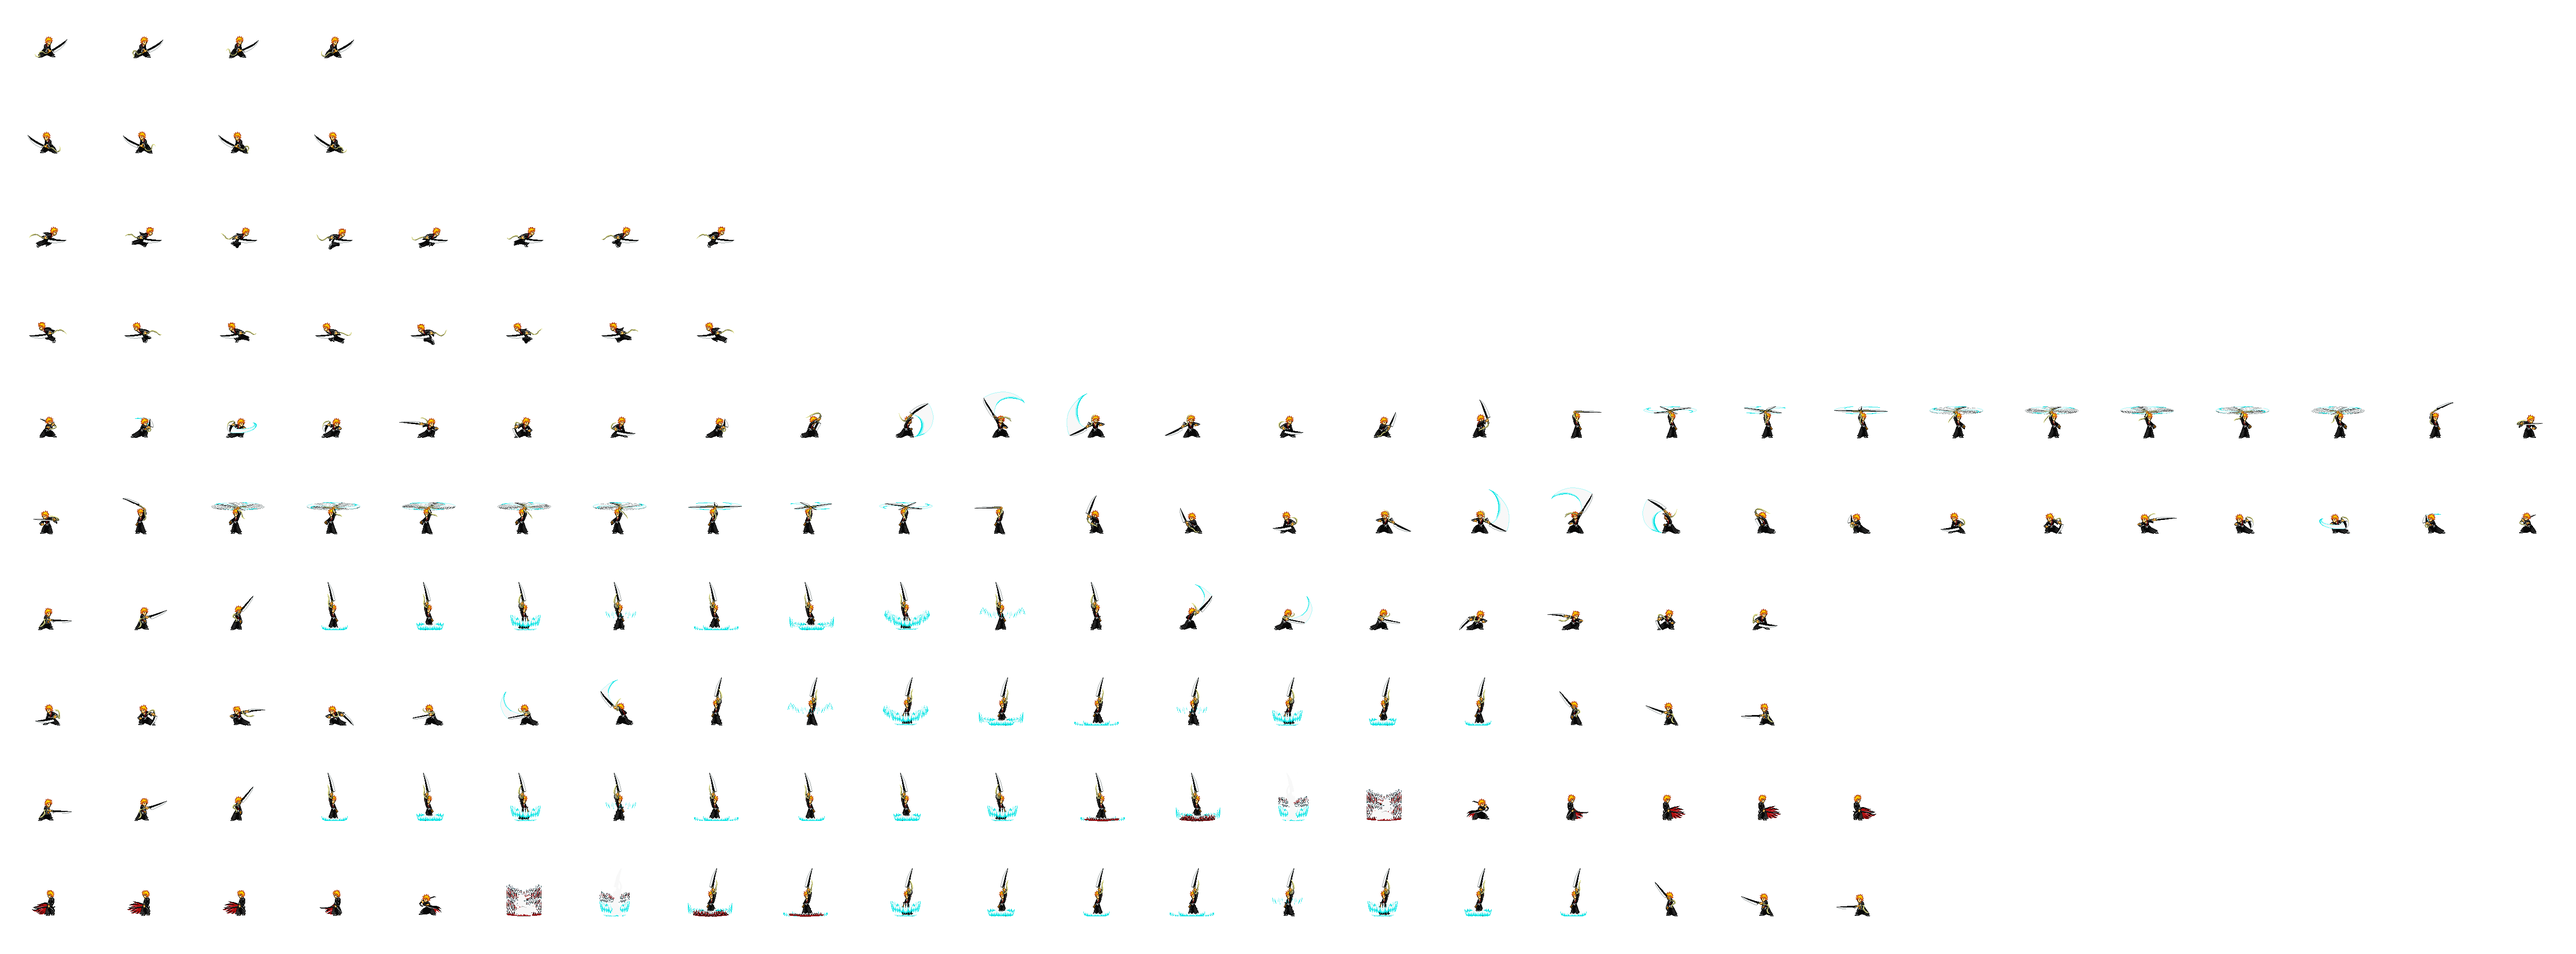
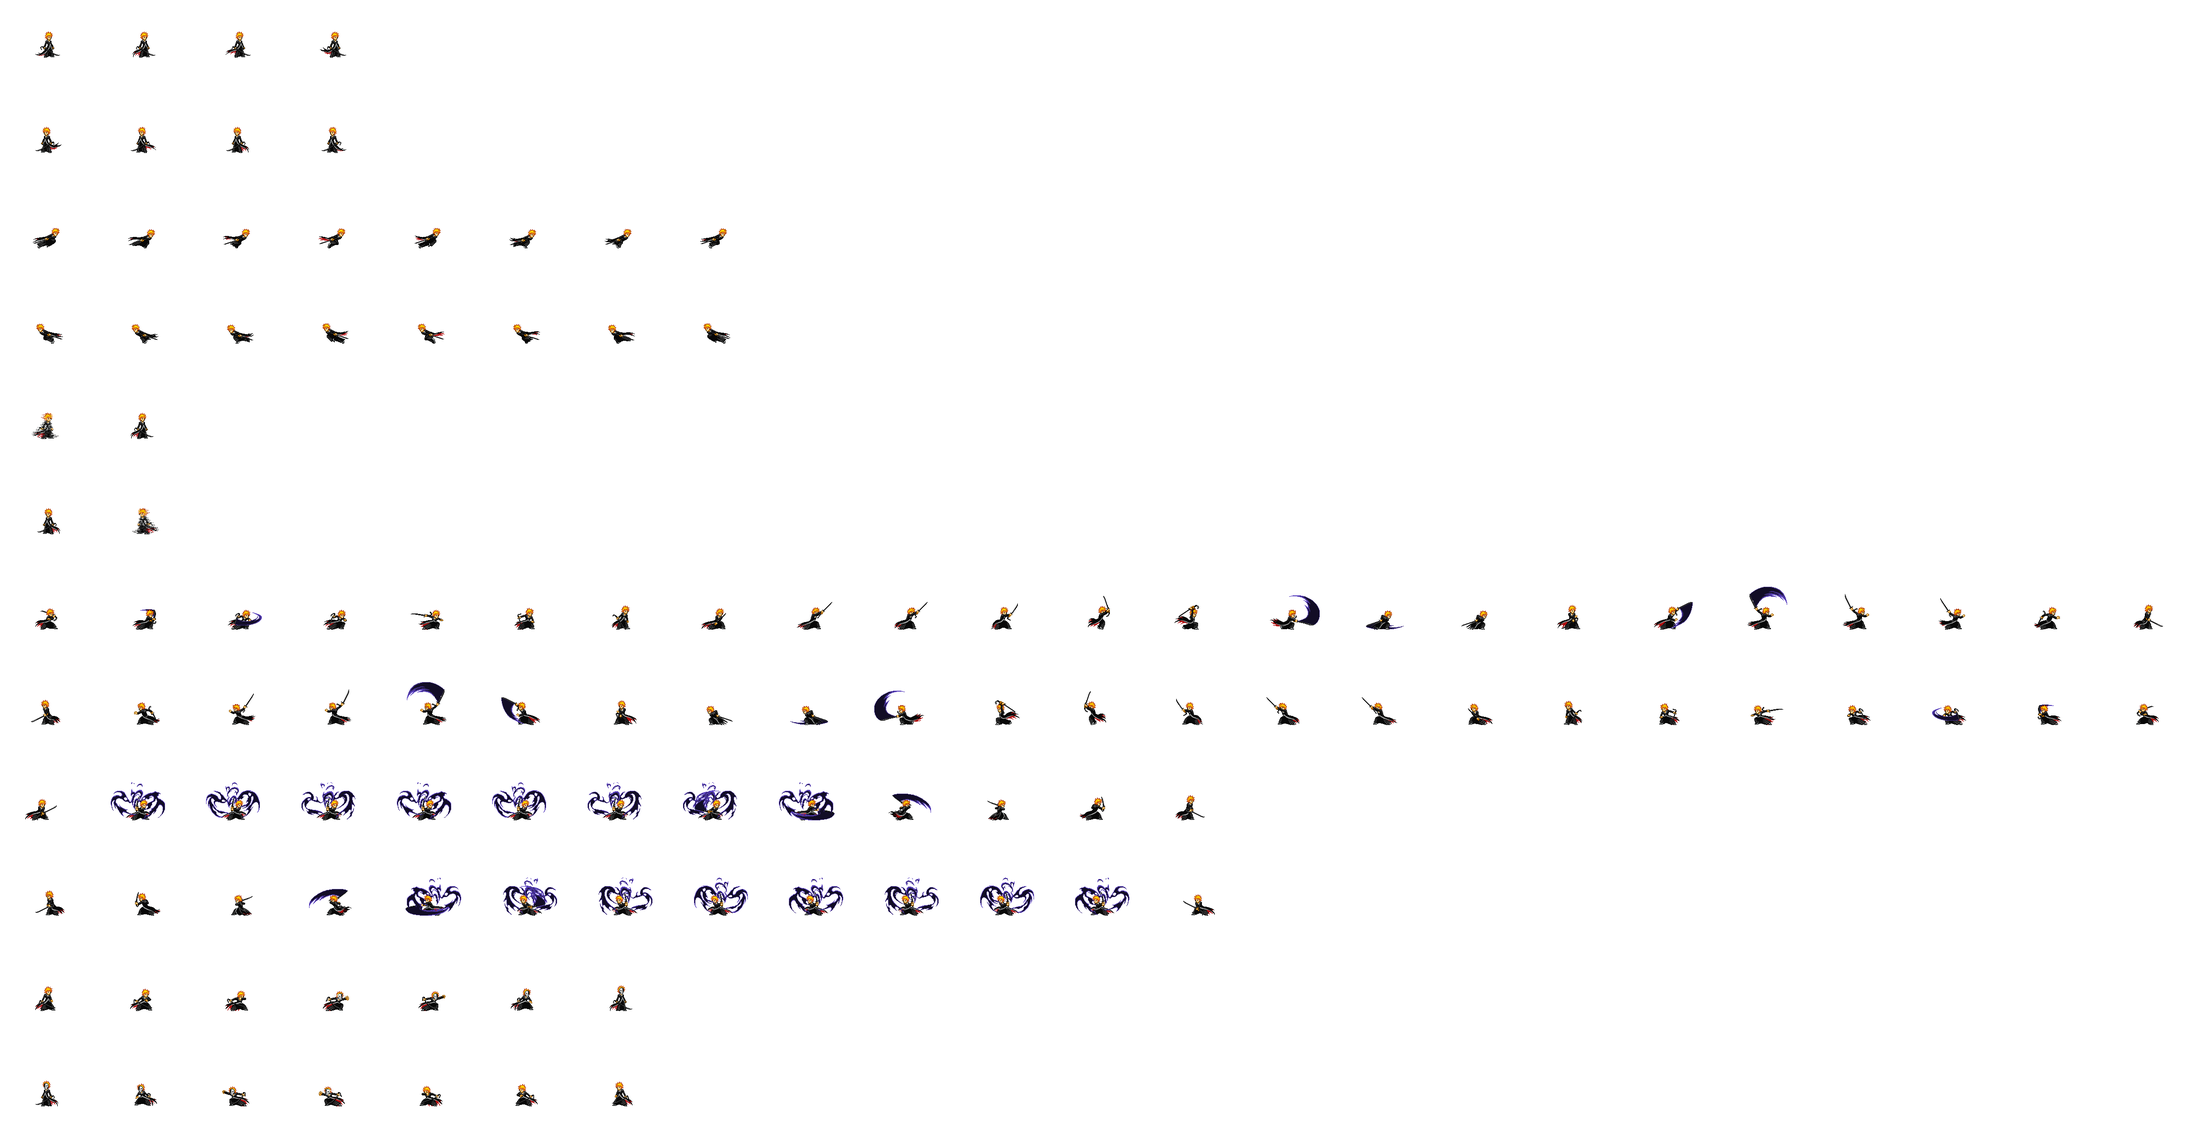
Changement dans la transformation

diff --git a/model/Heros.py b/model/Heros.py
@@ -38,7 +38,7 @@ class Heros(Character, metaclass=Singleton):
 
         if "num_sprintes" in self.lv0:
             self.transformAnim = [self.subimage(self.lv0["spriteSize"]*i, self.lv0["y_Anim"]["transform"], self.lv0["spriteSize"]*(i+1), self.lv0["y_Anim"]["transform"]+self.lv0["spriteSize"]).zoom(self.zoom)
-                            for i in range(self.lv0["num_sprintes"]["transform"])]
+                                  for i in range(self.lv0["num_sprintes"]["transform"])]
             self.transformAnim.reverse()
 
         if hasattr(self, 'lv1') and self.lv1 != {}:
@@ -61,7 +61,7 @@ class Heros(Character, metaclass=Singleton):
             self.attackLeft1.reverse()
 
             self.transformAnim1 = [self.subimage(self.lv1["spriteSize"]*i, self.lv1["y_Anim"]["transform"], self.lv1["spriteSize"]*(i+1), self.lv1["y_Anim"]["transform"]+self.lv1["spriteSize"]).zoom(self.zoom)
-                          for i in range(self.lv1["num_sprintes"]["transform"])]
+                                   for i in range(self.lv1["num_sprintes"]["transform"])]
             self.transformAnim1.reverse()
 
             self.death1 = [self.subimage(self.lv1["spriteSize"]*i, self.lv1["y_Anim"]["die"], self.lv1["spriteSize"]*(i+1), self.lv1["y_Anim"]["die"]+self.lv1["spriteSize"]).zoom(self.zoom)
@@ -87,7 +87,7 @@ class Heros(Character, metaclass=Singleton):
             self.attackLeft2.reverse()
 
             self.transformAnim2 = [self.subimage(self.lv2["spriteSize"]*i, self.lv2["y_Anim"]["transform"], self.lv2["spriteSize"]*(i+1), self.lv2["y_Anim"]["transform"]+self.lv2["spriteSize"]).zoom(self.zoom)
-                          for i in range(self.lv2["num_sprintes"]["transform"])]
+                                   for i in range(self.lv2["num_sprintes"]["transform"])]
             self.transformAnim2.reverse()
 
             self.death2 = [self.subimage(self.lv2["spriteSize"]*i, self.lv2["y_Anim"]["die"], self.lv2["spriteSize"]*(i+1), self.lv2["y_Anim"]["die"]+self.lv2["spriteSize"]).zoom(self.zoom)
@@ -129,7 +129,7 @@ class Heros(Character, metaclass=Singleton):
                     self.attack()
                     return self.target
             # if self.hp < self.baseHp:
-            #     self.hp += 1 
+            #     self.hp += 1
         self.seeking = self.canvas.after(50, self.seek)
 
     def mouseMove(self, event):
@@ -145,9 +145,9 @@ class Heros(Character, metaclass=Singleton):
                 self.moveTo(event.x, self.min_y)
             else:
                 self.moveTo(event.x, event.y)
-        
+
         elif self.attacking:
-            self.state="idle"
+            self.state = "idle"
             self.canvas.after_cancel(self.attack)
 
             if event.y > self.max_y:
@@ -178,7 +178,7 @@ class Heros(Character, metaclass=Singleton):
             self.damagingSprite = self.lv1["damagingSprite"]
             self.speed = self.lv1["speed"]
             self.attackSpeed = self.lv1["attackSpeed"]
-            self.num_sprintes = self.lv1["num_sprintes"]
+            # self.num_sprintes = self.lv1["num_sprintes"]
             self.spritesheet = self.lv1["spritesheet"]
             self.spriteSize = self.lv1["spriteSize"]
             self.y_Anim = self.lv1["y_Anim"]
@@ -200,7 +200,7 @@ class Heros(Character, metaclass=Singleton):
             self.damagingSprite = self.lv2["damagingSprite"]
             self.speed = self.lv2["speed"]
             self.attackSpeed = self.lv2["attackSpeed"]
-            self.num_sprintes = self.lv2["num_sprintes"]
+            # self.num_sprintes = self.lv2["num_sprintes"]
             self.spritesheet = self.lv2["spritesheet"]
             self.spriteSize = self.lv2["spriteSize"]
             self.y_Anim = self.lv2["y_Anim"]
@@ -211,7 +211,7 @@ class Heros(Character, metaclass=Singleton):
             self.attackRight = self.attackRight2
             # self.transformAnim = self.transformAnim2
             self.death = self.death2
-        
+
         elif self.lvl == 2:
             self.lvl = 3
             self.sprite = 0
@@ -222,7 +222,7 @@ class Heros(Character, metaclass=Singleton):
             self.damagingSprite = self.lv3["damagingSprite"]
             self.speed = self.lv3["speed"]
             self.attackSpeed = self.lv3["attackSpeed"]
-            self.num_sprintes = self.lv3["num_sprintes"]
+            # self.num_sprintes = self.lv3["num_sprintes"]
             self.spritesheet = self.lv3["spritesheet"]
             self.spriteSize = self.lv3["spriteSize"]
             self.y_Anim = self.lv3["y_Anim"]
@@ -233,7 +233,7 @@ class Heros(Character, metaclass=Singleton):
             self.attackLeft = self.attackLeft3
             self.attackRight = self.attackRight3
             self.death = self.death3
-    
+
     def changeStats(self, dict):
         self.hp = dict["hp"]
         self.damage = dict["damage"]
@@ -260,10 +260,10 @@ class Adventurer(Heros):
     name = "Aventurier"
     hp = 100
     damage = 4
-    damagingSprite = [1,2,3,4]
+    damagingSprite = [1, 2, 3, 4]
     speed = 8
     attackSpeed = 4
-    
+
     # Spritesheet du Heros
     barOffsetx = -8.5
     barOffsety = 10
@@ -283,22 +283,102 @@ class Adventurer(Heros):
     def transform(self):
         pass
 
+
 class Ichigo(Heros):
     # Stats du Héros
     name = "Ichigo"
 
-    hp = 50
-    damage = 2
-    speed = 8
-    attackSpeed = 4
+    def __init__(self, canvas, x, y, max_y, min_y):
+        self.hp = self.lv0["hp"]
+        self.damage = self.lv0["damage"]
+        self.damagingSprite = self.lv0["damagingSprite"]
+        self.speed = self.lv0["speed"]
+        self.attackSpeed = self.lv0["attackSpeed"]
+        self.num_sprintes = self.lv0["num_sprintes"]
+        self.spritesheet = self.lv0["spritesheet"]
+        self.spriteSize = self.lv0["spriteSize"]
+        self.y_Anim = self.lv0["y_Anim"]
+        Heros.__init__(self, canvas, x, y, max_y, min_y)
+    
+    lv0 = {
+        "hp": 50,
+        "damage": 2,
+        "speed": 8,
+        "attackSpeed": 4,
 
-    # Spritesheet du Heros
-    num_sprintes = {"idle": 2, "runRight": 8,
-                    "runLeft": 8, "attackRight": 16, "attackLeft": 16, "die": 2, "transform": 3}
-    spritesheet = "view/src/Ichigo0.png"
-    spriteSize = 200
-    y_Anim = {"idle": 0, "runRight": 400, "runLeft": 600,
-              "attackRight": 800, "attackLeft": 1000, "die": 0, "transform": 1200}
+        # Spritesheet du Heros
+        "damagingSprite" : [2,3,5,12,13],
+        "num_sprintes": {"idle": 2, "runRight": 8,
+                         "runLeft": 8, "attackRight": 16, "attackLeft": 16, "die": 2, "transform": 20},
+        "spritesheet": "view/src/Ichigo0.png",
+        "spriteSize": 200,
+        "y_Anim": {"idle": 0, "runRight": 400, "runLeft": 600,
+                   "attackRight": 800, "attackLeft": 1000, "die": 0, "transform": 1800}
+    }
+
+    lv1 = {
+        "hp": 50,
+        "damage": 2,
+        "speed": 8,
+        "attackSpeed": 6,
+
+        # Spritesheet du Heros
+        "damagingSprite" : [2,3,5,12,13],
+        "num_sprintes": {"idle": 2, "runRight": 8,
+                         "runLeft": 8, "attackRight": 16, "attackLeft": 16, "die": 2, "transform": 20},
+        "spritesheet": "view/src/Ichigo1.png",
+        "spriteSize": 200,
+        "y_Anim": {"idle": 0, "runRight": 400, "runLeft": 600,
+                   "attackRight": 800, "attackLeft": 1000, "die": 0, "transform": 1200}
+    }
+
+    lv1 = {
+        "hp": 50,
+        "damage": 2,
+        "speed": 8,
+        "attackSpeed": 6,
+
+        # Spritesheet du Heros
+        "damagingSprite" : [2,3,5,12,13],
+        "num_sprintes": {"idle": 2, "runRight": 8,
+                         "runLeft": 8, "attackRight": 16, "attackLeft": 16, "die": 2, "transform": 7},
+        "spritesheet": "view/src/Ichigo1.png",
+        "spriteSize": 200,
+        "y_Anim": {"idle": 0, "runRight": 400, "runLeft": 600,
+                   "attackRight": 800, "attackLeft": 1000, "die": 0, "transform": 1200}
+    }
+
+    lv2 = {
+        "hp": 50,
+        "damage": 2,
+        "speed": 8,
+        "attackSpeed": 6,
+
+        # Spritesheet du Heros
+        "damagingSprite" : [2,3,5,12,13],
+        "num_sprintes": {"idle": 2, "runRight": 8,
+                         "runLeft": 8, "attackRight": 16, "attackLeft": 16, "die": 2, "transform": 7},
+        "spritesheet": "view/src/Ichigo1.png",
+        "spriteSize": 200,
+        "y_Anim": {"idle": 0, "runRight": 400, "runLeft": 600,
+                   "attackRight": 800, "attackLeft": 1000, "die": 0, "transform": 1200}
+    }    
+# class Ichigo(Heros):
+#     # Stats du Héros
+#     name = "Ichigo"
+
+#     hp = 50
+#     damage = 2
+#     speed = 8
+#     attackSpeed = 4
+
+#     # Spritesheet du Heros
+#     num_sprintes = {"idle": 2, "runRight": 8,
+#                     "runLeft": 8, "attackRight": 16, "attackLeft": 16, "die": 2, "transform": 3}
+#     spritesheet = "view/src/Ichigo0.png"
+#     spriteSize = 200
+#     y_Anim = {"idle": 0, "runRight": 400, "runLeft": 600,
+#               "attackRight": 800, "attackLeft": 1000, "die": 0, "transform": 1200}
 
 
 class Goku(Heros):

diff --git a/model/Character.py b/model/Character.py
@@ -148,6 +148,7 @@ class Character (Thread):
         else :
             self.canvas.delete(self.healthBar)
             self.canvas.delete(self.damageBar)
+            self.parent.gold.set(self.parent.gold.get()+self.purse)
             self.canvas.after_cancel(self.move)
             self.canvas.after_cancel(self.seeking)
             if self.attacking:
@@ -204,7 +205,7 @@ class Character (Thread):
     def idleAnim(self):
         self.show()
         if self.state == "transform":
-            time = 350
+            time = 200
         else : 
             time = 250
         self.afterIdle = self.canvas.after(time, self.idleAnim)
@@ -216,8 +217,16 @@ class Character (Thread):
                 self.state = "idle"
                 if self.lvl == 1:
                     self.transformAnim = self.transformAnim1
+                    self.num_sprintes = self.lv1["num_sprintes"]
+
                 elif self.lvl == 2:
                     self.transformAnim = self.transformAnim2
+                    self.num_sprintes = self.lv2["num_sprintes"]
+
+                elif self.lvl == 3:
+                    self.num_sprintes = self.lv3["num_sprintes"]
+
+                
                     
 
 
@@ -231,7 +240,7 @@ class Character (Thread):
         elif self.state == "attackRight" or self.state == "attackLeft":
             time = int(500/self.attackSpeed)
         elif self.state == "transform" :
-            time = 350
+            time = 200
         elif self.state == "die":
             time = 400
         else :

diff --git a/model/Ennemy.py b/model/Ennemy.py
@@ -5,12 +5,13 @@ import model.Heros as He
 ennemies=[]
 
 class Ennemy (Character):
+    purse = 0
     team = "ennemy"
     state = "idle"
  
-    def __init__ (self, master, x, y, heros) :
+    def __init__ (self, parent, x, y, heros) :
         global ennemies
-        Character.__init__(self,master,x,y)
+        Character.__init__(self,parent,x,y)
         self.heros = heros
         ennemies.append(self)
         # self.index = len(ennemies)-1
@@ -32,10 +33,8 @@ class Ennemy (Character):
         if self.move == None:
             self.moveTo(1200,self.y)
 
-    # def die(self, delete):
-    #     global ennemies
-    #     super().die(delete)
-    #     ennemies.pop(self.index)
+    def die(self, delete):
+        super().die(delete)
 
 
 class Skeleton (Ennemy) :
@@ -45,6 +44,8 @@ class Skeleton (Ennemy) :
     attackSpeed = 1
     speed = 1
     damage = 2
+    purse = 10
+
     barOffsetx = -20
 
     spriteSize = 32

diff --git a/model/Tower.py b/model/Tower.py
@@ -212,7 +212,7 @@ class Boulet(Projectile):
         self.y=y-70
         self.target = target
         self.damage=damage
-        Projectile.__init__(self,canvas, "view/src/bouletDeCanon.png", "view/src/cercle noir.png")
+        Projectile.__init__(self,canvas, "view/src/bouletDeCanon.png", "view/src/bouletDeCanon.png")
     
 
 class Mage(Tower):

diff --git a/view/launchTk.py b/view/launchTk.py
@@ -28,7 +28,7 @@ class Emplacement():
 class Lvl1(tk.Frame):
     canvas = None
     def __init__(self, parent, *args, **kwargs):
-        self.selectedHeros = "Aventurier"
+        self.selectedHeros = "Ichigo"
         self.spots = []
         self.spotsImage = []
         self.fillspots(self.spots)
